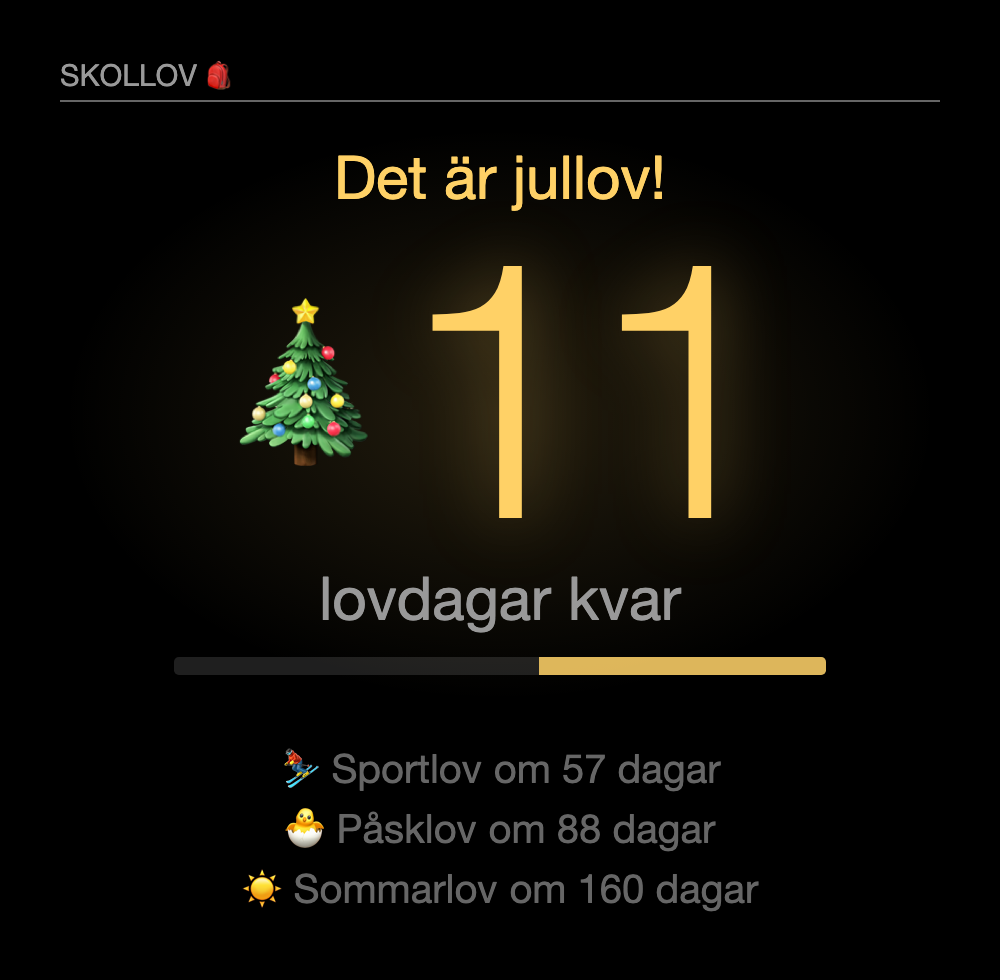
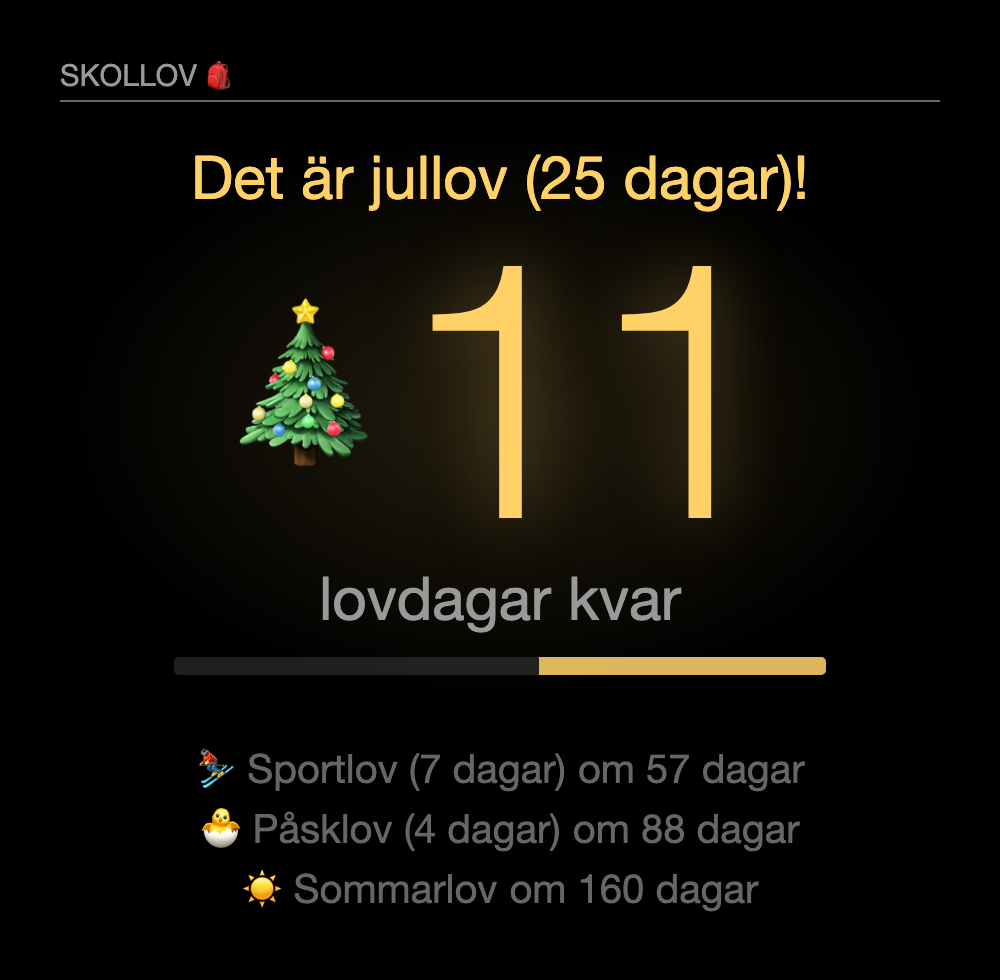
Add showLength: lov length in days after its name
"dagar kvar till jullovet (25 dagar)!", "Det är sportlov (7 dagar)!" and
"Sportlov (7 dagar) om 97 dagar" in the upcoming list. Counted like the
bar, from the first free day, so it follows includeWeekendBefore. Not
shown for the open-ended sommarlov marker. On by default.

Screenshots re-rendered.

Changed region(s): [[0.186, 0.7653, 0.806, 0.8878], [0.186, 0.1531, 0.806, 0.2143]]

diff --git a/skollov-core.js b/skollov-core.js
@@ -326,6 +326,10 @@
 		return s.charAt(0).toUpperCase() + s.slice(1);
 	}
 
+	function plural(n, one, many) {
+		return n === 1 ? one : many;
+	}
+
 	/** "jullovet", "sommarlovet"; anything not ending in -lov is just lowercased. */
 	function definite(name) {
 		const lower = name.toLowerCase();
@@ -349,12 +353,13 @@
 	 * `h` must come from computeView (it needs `freeFrom`).
 	 * Returns { big, line, sub, days }.
 	 */
-	function phraseBefore(h, today) {
+	function phraseBefore(h, today, opts) {
 		const days = diffDays(today, h.freeFrom);
-		const def = definite(h.name);
+		const len = lengthSuffix(h, opts);
+		const def = definite(h.name) + len;
 		const sub = `Ledigt från ${formatLong(h.freeFrom)}`;
 		if (days === 1) {
-			return { big: "1", line: `dag kvar – imorgon är det ${h.name.toLowerCase()}! 🎉`, sub, days };
+			return { big: "1", line: `dag kvar – imorgon är det ${h.name.toLowerCase()}${len}! 🎉`, sub, days };
 		}
 		let line = `dagar kvar till ${def}`;
 		line += days <= 6 ? ` – på ${WEEKDAYS[weekday(h.freeFrom)]}!` : "!";
@@ -366,14 +371,35 @@
 	 * included, and the copy says so ("lovdagar kvar") so it cannot be read
 	 * as a countdown. Returns { banner, big, line, sub, remaining }.
 	 */
-	function phraseDuring(h, today) {
+	function phraseDuring(h, today, opts) {
 		const remaining = diffDays(today, h.lastDay) + 1;
-		const name = h.name.toLowerCase();
+		const name = h.name.toLowerCase() + lengthSuffix(h, opts);
 		const banner = today === h.freeFrom ? `Äntligen ${name}!` : `Det är ${name}!`;
 		let line = "lovdagar kvar";
 		if (remaining === 1) line = "lovdag kvar – sista dagen! 🥳";
 		else if (remaining === 2) line = "lovdagar kvar – imorgon är sista dagen";
 		return { banner, big: String(remaining), line, sub: `Ledigt t.o.m. ${formatLong(h.lastDay)}`, remaining };
+	}
+
+	/**
+	 * Length of a lov in days, counted like the bar: from the first free day
+	 * (freeFrom) through the last day. Null for the open-ended summer marker.
+	 */
+	function lengthDays(h) {
+		if (h.openEnded) return null;
+		return diffDays(h.freeFrom || h.start, h.lastDay) + 1;
+	}
+
+	/** " (7 dagar)" when opts.showLength is set and the lov has a length; otherwise "". */
+	function lengthSuffix(h, opts) {
+		if (!opts || !opts.showLength) return "";
+		const n = lengthDays(h);
+		return n === null ? "" : ` (${n} ${plural(n, "dag", "dagar")})`;
+	}
+
+	/** Name for the upcoming list: "Sportlov (7 dagar)". */
+	function displayName(h, opts) {
+		return h.name + lengthSuffix(h, opts);
 	}
 
 	/** The sun. Returns { title, line }. */
@@ -437,6 +463,8 @@
 		phraseDuring,
 		phraseSummer,
 		phraseUntil,
+		lengthDays,
+		displayName,
 		todayIn,
 		formatLong,
 		formatShort,

diff --git a/test/core.test.js b/test/core.test.js
@@ -310,6 +310,34 @@ test("today is computed in Europe/Stockholm", () => {
 	assert.equal(core.todayIn("Europe/Stockholm", new Date("2027-07-01T22:00:00Z")), "2027-07-02");
 });
 
+/* ------------------------------------------------------------ showLength */
+
+test("showLength: lov length in parentheses after the name", () => {
+	const on = { showLength: true };
+	const v = view("2026-11-22", { maxUpcoming: 3 });
+	assert.equal(core.phraseBefore(v.next, "2026-11-22", on).line, "dagar kvar till jullovet (25 dagar)!");
+	assert.deepEqual(
+		v.upcoming.map((h) => core.displayName(h, on)),
+		["Sportlov (7 dagar)", "Påsklov (4 dagar)", "Sommarlov"] // summer has no end: no length
+	);
+	const sport = v.upcoming[0];
+	assert.equal(core.phraseBefore(sport, "2027-02-26", on).line, "dag kvar – imorgon är det sportlov (7 dagar)! 🎉");
+	assert.equal(core.phraseBefore(sport, "2027-02-24", on).line, "dagar kvar till sportlovet (7 dagar) – på lördag!");
+	assert.equal(core.phraseDuring(sport, "2027-03-02", on).banner, "Det är sportlov (7 dagar)!");
+	assert.equal(core.phraseDuring(sport, "2027-02-27", on).banner, "Äntligen sportlov (7 dagar)!");
+});
+
+test("showLength: length follows the weekend rule, and is off when not asked for", () => {
+	const off = view("2026-11-22", { maxUpcoming: 3, includeWeekendBefore: false });
+	assert.equal(core.displayName(off.upcoming[0], { showLength: true }), "Sportlov (5 dagar)");
+	assert.equal(core.lengthDays(vh("autumn")), 7); // lör 24 – fre 30 okt
+	assert.equal(core.lengthDays(vh("summer")), null);
+	assert.equal(core.displayName(vh("sport"), {}), "Sportlov");
+	assert.equal(core.phraseBefore(vh("christmas"), "2026-11-22").line, "dagar kvar till jullovet!");
+	const one = { name: "Lovdag", openEnded: false, freeFrom: "2027-05-14", lastDay: "2027-05-14" };
+	assert.equal(core.displayName(one, { showLength: true }), "Lovdag (1 dag)");
+});
+
 test("slugify matches skollov.nu slugs", () => {
 	assert.equal(core.slugify("Huddinge"), "huddinge");
 	assert.equal(core.slugify("Upplands Väsby"), "upplands-vasby");

diff --git a/MMM-Skollov.js b/MMM-Skollov.js
@@ -24,6 +24,9 @@ Module.register("MMM-Skollov", {
 		staleWarningDays: 30,
 		cacheWarningDays: 3,
 		showDates: false,
+		// Show the lov's length after its name: "jullovet (25 dagar)".
+		// Counted from the first free day, like the bar; never for sommarlov.
+		showLength: true,
 		animate: true,
 		timeZone: "Europe/Stockholm",
 		calendarUrl: null,
@@ -147,7 +150,7 @@ Module.register("MMM-Skollov", {
 	},
 
 	renderBefore(h, today) {
-		const t = SkollovCore.phraseBefore(h, today);
+		const t = SkollovCore.phraseBefore(h, today, this.config);
 		const box = this.el("div", `skollov-main skollov-type-${h.type}`);
 		box.appendChild(this.hero(h.emoji, t.big, false));
 		box.appendChild(this.el("div", "skollov-line medium normal", t.line));
@@ -156,7 +159,7 @@ Module.register("MMM-Skollov", {
 	},
 
 	renderDuring(h, today) {
-		const t = SkollovCore.phraseDuring(h, today);
+		const t = SkollovCore.phraseDuring(h, today, this.config);
 		const box = this.el("div", `skollov-main skollov-main--during skollov-type-${h.type}`);
 		box.appendChild(this.el("div", "skollov-banner medium", t.banner));
 		box.appendChild(this.hero(h.emoji, t.big, true));
@@ -214,7 +217,7 @@ Module.register("MMM-Skollov", {
 		for (const h of list) {
 			const row = this.el("div", `skollov-up skollov-type-${h.type}`);
 			row.appendChild(this.el("span", "skollov-up-emoji", h.emoji));
-			row.appendChild(this.el("span", "skollov-up-name", h.name));
+			row.appendChild(this.el("span", "skollov-up-name", SkollovCore.displayName(h, this.config)));
 			row.appendChild(this.el("span", "skollov-up-until", SkollovCore.phraseUntil(h, today)));
 			box.appendChild(row);
 		}

diff --git a/README.md b/README.md
@@ -17,15 +17,15 @@ Rendered from the real Huddinge 2026/2027 calendar, using `debugDate` to show ea
 
 <table>
 <tr>
-<td align="center" width="50%"><img src="docs/before.png" alt="Countdown: Christmas tree emoji, 26, dagar kvar till jullovet, with Sportlov, Påsklov and Sommarlov listed below as om 97, 128 and 200 dagar" width="100%"><br><sub><b>Before a lov</b>: 22 Nov 2026, 26 days to jullov</sub></td>
-<td align="center" width="50%"><img src="docs/tomorrow.png" alt="Countdown: skier emoji, 1, dag kvar – imorgon är det sportlov" width="100%"><br><sub><b>The day before</b>: Fri 26 Feb 2027, free from Saturday</sub></td>
+<td align="center" width="50%"><img src="docs/before.png" alt="Countdown: Christmas tree emoji, 26, dagar kvar till jullovet (25 dagar), with Sportlov (7 dagar), Påsklov (4 dagar) and Sommarlov listed below as om 97, 128 and 200 dagar" width="100%"><br><sub><b>Before a lov</b>: 22 Nov 2026, 26 days to jullov</sub></td>
+<td align="center" width="50%"><img src="docs/tomorrow.png" alt="Countdown: skier emoji, 1, dag kvar – imorgon är det sportlov (7 dagar)" width="100%"><br><sub><b>The day before</b>: Fri 26 Feb 2027, free from Saturday</sub></td>
 </tr>
 <tr>
-<td align="center"><img src="docs/during.png" alt="During sportlov: Det är sportlov, 4 lovdagar kvar, seven-segment bar with three dark and four lit" width="100%"><br><sub><b>During sportlov</b>: 2 Mar 2027, 4 of 7 days left</sub></td>
-<td align="center"><img src="docs/lastday.png" alt="Last day of sportlov: 1 lovdag kvar – sista dagen, one lit segment of seven" width="100%"><br><sub><b>Last day</b>: 5 Mar 2027, one segment left</sub></td>
+<td align="center"><img src="docs/during.png" alt="During sportlov: Det är sportlov (7 dagar), 4 lovdagar kvar, seven-segment bar with three dark and four lit" width="100%"><br><sub><b>During sportlov</b>: 2 Mar 2027, 4 of 7 days left</sub></td>
+<td align="center"><img src="docs/lastday.png" alt="Last day of sportlov (7 dagar): 1 lovdag kvar – sista dagen, one lit segment of seven" width="100%"><br><sub><b>Last day</b>: 5 Mar 2027, one segment left</sub></td>
 </tr>
 <tr>
-<td align="center"><img src="docs/jullov.png" alt="During jullov: Det är jullov, 11 lovdagar kvar, continuous bar 11/25 lit" width="100%"><br><sub><b>Long lov</b>: 1 Jan 2027, continuous bar (11 of 25 days)</sub></td>
+<td align="center"><img src="docs/jullov.png" alt="During jullov: Det är jullov (25 dagar), 11 lovdagar kvar, continuous bar 11/25 lit" width="100%"><br><sub><b>Long lov</b>: 1 Jan 2027, continuous bar (11 of 25 days)</sub></td>
 <td align="center"><img src="docs/summer.png" alt="Summer: a large sun emoji, Glad sommar, Sommarlovet är här – njut av ledigheten" width="100%"><br><sub><b>Summer</b>: 15 Jul 2027, the sun until school restarts</sub></td>
 </tr>
 </table>
@@ -80,6 +80,7 @@ Add to `config/config.js`:
 | `summerSunUntil` | `"08-20"` | The last day (MM-DD) of the summer sun. Swedish schools restart around week 33–34, and the exact date varies by kommun. If no new läsår has been published by then, the module shows the "calendar has run out" warning instead of a sun that is no longer true. |
 | `staleWarningDays` | `30` | Only for calendars that do **not** end with a "Sommarlovet börjar" marker: warn this many days before the data runs out. The normal shape, ending in summer, is covered by the sun instead. |
 | `cacheWarningDays` | `3` | If skollov.nu has been unreachable and the module has run on cached data for this many days, say so on the mirror. |
+| `showLength` | `true` | Show how long each lov is, in parentheses after its name: "dagar kvar till jullovet (25 dagar)!", "Det är sportlov (7 dagar)!", "⛷ Sportlov (7 dagar) om 97 dagar". The length is counted like the bar, from the first free day, so with `includeWeekendBefore` sportlov 1–5 March is 7 days. Not shown for sommarlov, which has no end date in the data. |
 | `showDates` | `false` | Show a small date line under the number ("Ledigt från lördag 27 februari", "Ledigt t.o.m. fredag 5 mars"). |
 | `animate` | `true` | Gently bouncing emoji during a lov. Also turned off automatically when the system asks for reduced motion. The bar never animates. |
 | `timeZone` | `"Europe/Stockholm"` | The time zone that decides when the day changes. The display updates once, at midnight. |
